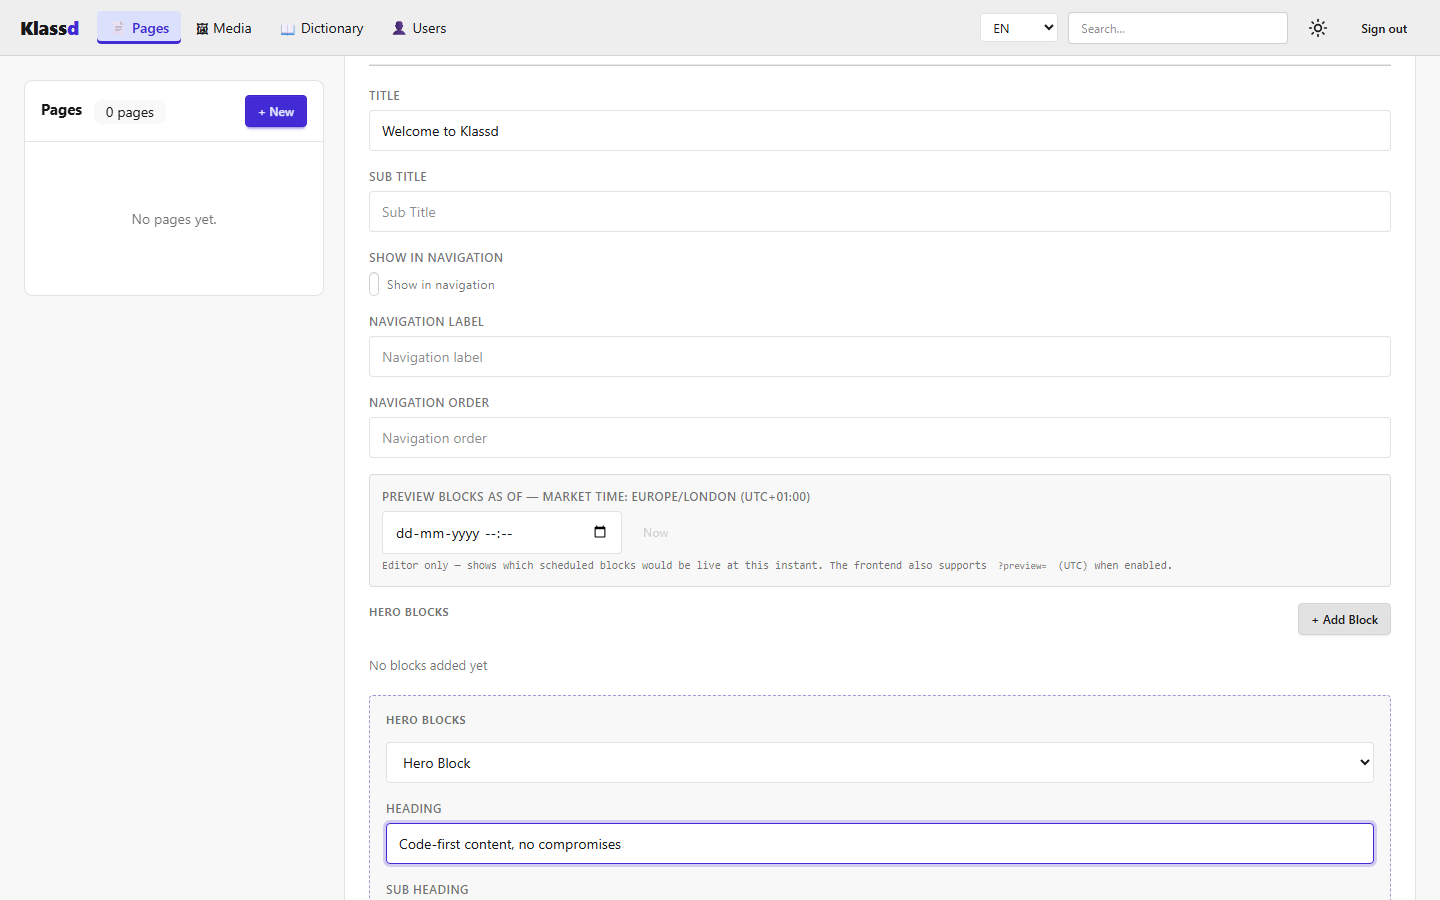
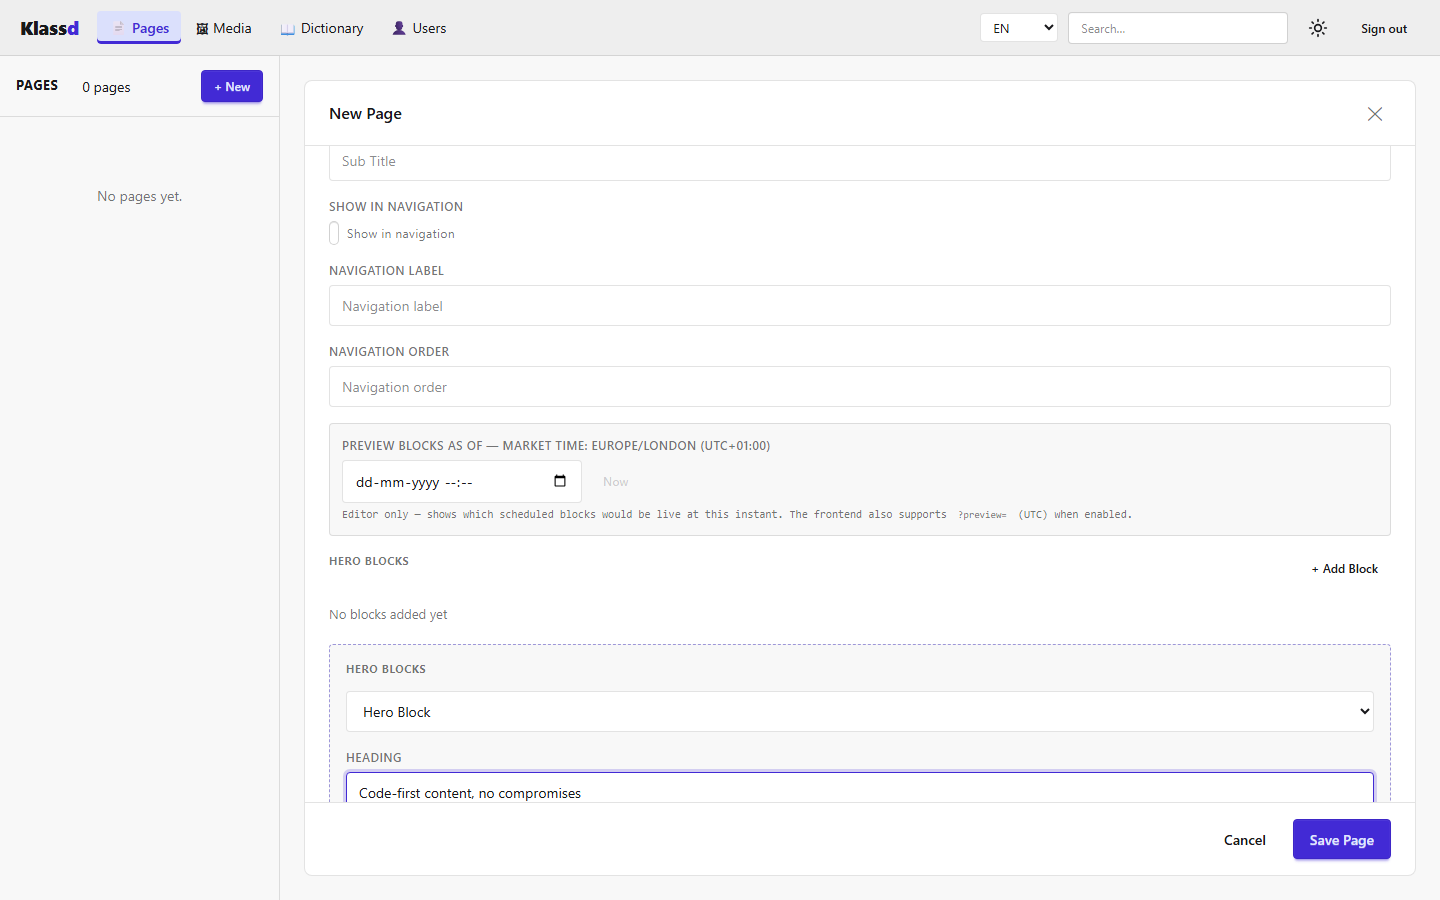
style(admin): full-height flush side rail instead of floating card
The context panel was a short rounded card floating in the content
padding, leaving a large empty area below and sharing the detail's
surface (no hierarchy). Make it a true sidebar:

- .area-layout bleeds past the content padding (negative margins) and
  fills the viewport below the top bar; the rail is flush, square,
  on base-200 with a right border.
- Rail header is an uppercase section label; hovers/active states use
  base-300 so they read on the new rail surface.
- Detail pane scrolls independently with its own padding; the editor,
  empty state and media/global cards stretch to full height so there's
  no gray void on the right either.

Screenshots regenerated.

diff --git a/src/Klassd.Backoffice/wwwroot/klassd.css b/src/Klassd.Backoffice/wwwroot/klassd.css
@@ -67,21 +67,26 @@ code {
 .admin-topbar-actions { flex-shrink: 0; }
 .admin-topbar-locale select { padding: 4px 8px; font-size: 13px; width: auto; }
 
-/* ── Area master-detail (context tree/list on the left, detail in the centre) ── */
-.area-layout { display: grid; grid-template-columns: 300px 1fr; gap: 20px; align-items: start; height: 100%; }
+/* ── Area master-detail: full-height flush rail on the left, detail in the centre ──
+   The rail bleeds past .admin-content's 24px padding (negative margins) so it sits
+   flush under the top bar with no gap or rounded corners, on its own surface. */
+.area-layout {
+  display: grid; grid-template-columns: 280px 1fr;
+  margin: -24px;                 /* cancel .admin-content padding → flush to all edges */
+  height: calc(100vh - 56px);    /* fill the viewport below the 56px top bar */
+}
 .context-tree {
-  background: var(--color-base-100); border: 1px solid var(--admin-border);
-  border-radius: var(--radius-box, .5rem);
-  display: flex; flex-direction: column;
-  position: sticky; top: 0; max-height: calc(100vh - 56px - 48px);
+  background: var(--color-base-200);
+  border-right: 1px solid var(--admin-border);
+  display: flex; flex-direction: column; min-height: 0;
 }
 .context-tree-header {
   padding: 14px 16px; border-bottom: 1px solid var(--admin-border);
   display: flex; align-items: center; justify-content: space-between; gap: 10px; flex-shrink: 0;
 }
-.context-tree-header h2 { font-size: 15px; font-weight: 700; display: inline; margin-right: 8px; }
-.context-tree-body { overflow-y: auto; padding: 6px; }
-.area-detail { min-width: 0; }
+.context-tree-header h2 { font-size: 13px; font-weight: 700; text-transform: uppercase; letter-spacing: .04em; display: inline; margin-right: 8px; }
+.context-tree-body { overflow-y: auto; padding: 8px; flex: 1; min-height: 0; }
+.area-detail { min-width: 0; overflow-y: auto; padding: 24px; display: flex; flex-direction: column; }
 
 /* Simple context list (media sections, global types). */
 .context-list { list-style: none; margin: 0; padding: 0; }
@@ -90,15 +95,15 @@ code {
   border-radius: var(--radius-field, .25rem); color: var(--color-base-content);
   text-decoration: none; font-size: 14px;
 }
-.context-list li > a:hover { background: var(--color-base-200); }
+.context-list li > a:hover { background: var(--color-base-300); }
 .context-list li > a.context-active { background: var(--menu-active-bg); color: var(--color-primary); font-weight: 600; }
-.context-list { --menu-active-bg: color-mix(in oklab, var(--color-primary) 14%, var(--color-base-100)); }
+.context-list { --menu-active-bg: color-mix(in oklab, var(--color-primary) 16%, var(--color-base-200)); }
 
 /* ── Content tree (page hierarchy) ─────────────────────────────────────────── */
 .tree-list { list-style: none; margin: 0; padding: 0; }
 .tree-node { display: flex; align-items: center; gap: 4px; padding-right: 6px; border-radius: var(--radius-field, .25rem); min-height: 32px; }
-.tree-node:hover { background: var(--color-base-200); }
-.tree-node.active { background: color-mix(in oklab, var(--color-primary) 14%, var(--color-base-100)); }
+.tree-node:hover { background: var(--color-base-300); }
+.tree-node.active { background: color-mix(in oklab, var(--color-primary) 16%, var(--color-base-200)); }
 .tree-node.active .tree-title { color: var(--color-primary); font-weight: 600; }
 .tree-label { flex: 1; min-width: 0; display: flex; align-items: center; gap: 8px; background: none; border: none; cursor: pointer; text-align: left; padding: 4px 2px; color: var(--color-base-content); font-size: 14px; }
 .tree-title { overflow: hidden; text-overflow: ellipsis; white-space: nowrap; }
@@ -107,11 +112,14 @@ code {
 .tree-node:hover .tree-actions, .tree-node.active .tree-actions { opacity: 1; }
 
 /* ── Inline editor (replaces the slide-in .panel) ──────────────────────────── */
-.editor-inline { background: var(--color-base-100); border: 1px solid var(--admin-border); border-radius: var(--radius-box, .5rem); display: flex; flex-direction: column; min-height: 0; }
-.pages-empty { background: var(--color-base-100); border: 1px solid var(--admin-border); border-radius: var(--radius-box, .5rem); }
+.editor-inline { background: var(--color-base-100); border: 1px solid var(--admin-border); border-radius: var(--radius-box, .5rem); display: flex; flex-direction: column; flex: 1; min-height: 0; }
+.pages-empty { flex: 1; display: flex; align-items: center; justify-content: center; background: var(--color-base-100); border: 1px solid var(--admin-border); border-radius: var(--radius-box, .5rem); }
+/* Detail cards (media grid, global editor) fill the height too — no gray void on the right. */
+.area-detail > .card { flex: 1; display: flex; flex-direction: column; min-height: 0; }
+.area-detail > .card > .card-body { flex: 1; min-height: 0; }
 @media (max-width: 900px) {
-  .area-layout { grid-template-columns: 1fr; }
-  .context-tree { position: static; max-height: 320px; }
+  .area-layout { grid-template-columns: 1fr; height: auto; }
+  .context-tree { border-right: none; border-bottom: 1px solid var(--admin-border); max-height: 320px; }
 }
 
 /* Theme toggle (plain button; icon swaps on data-theme). */
